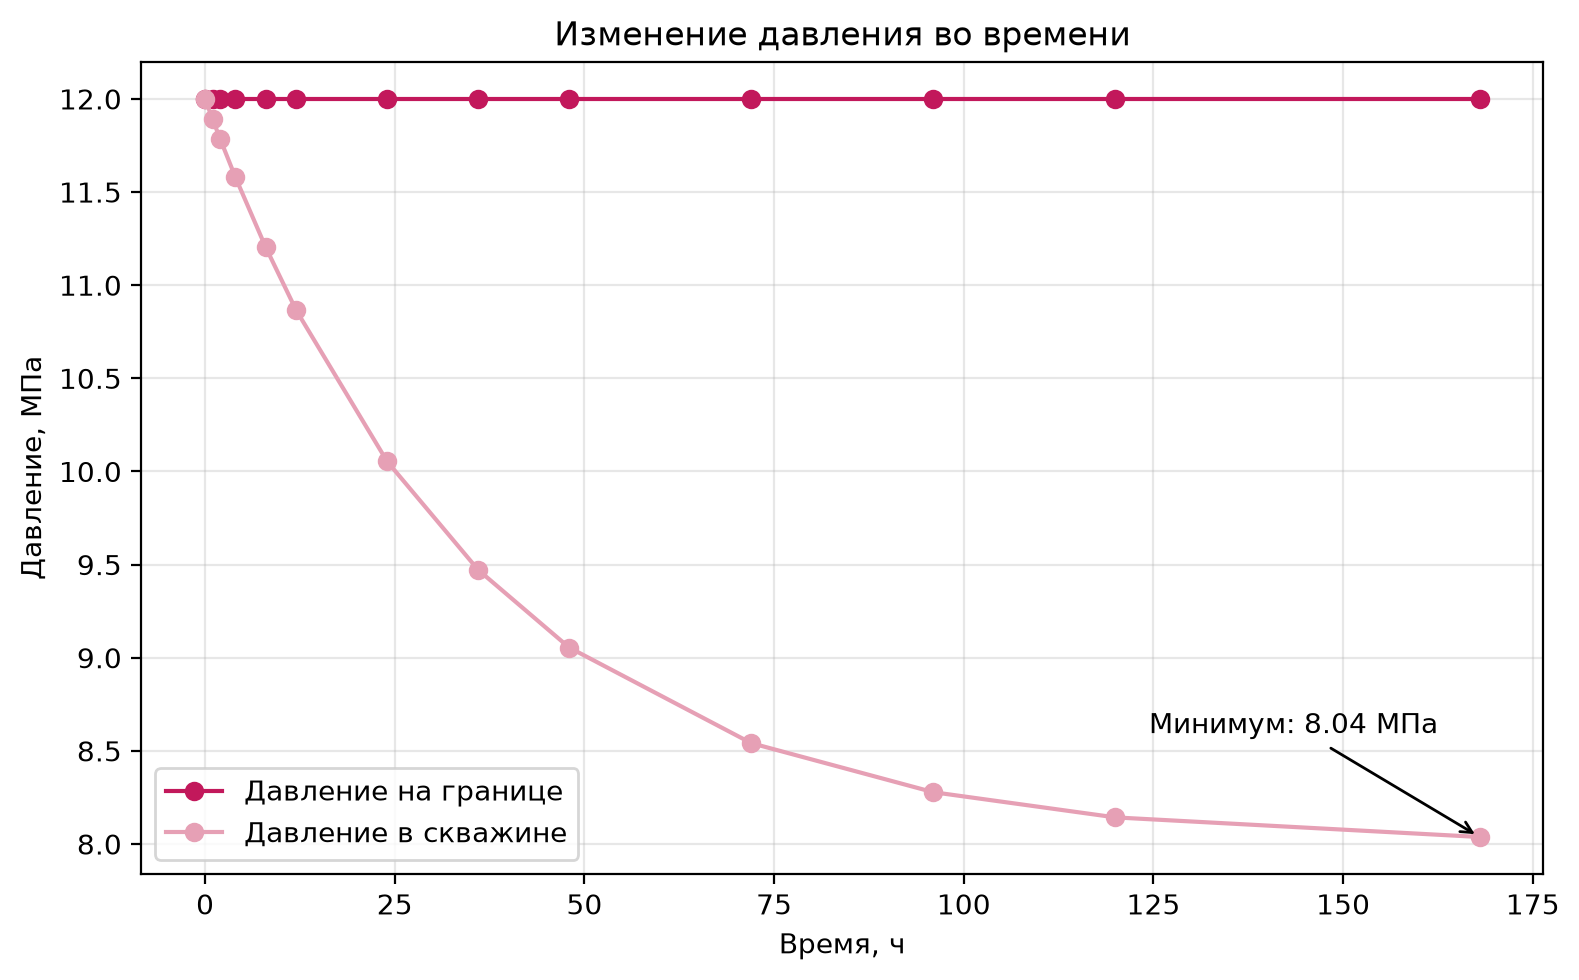
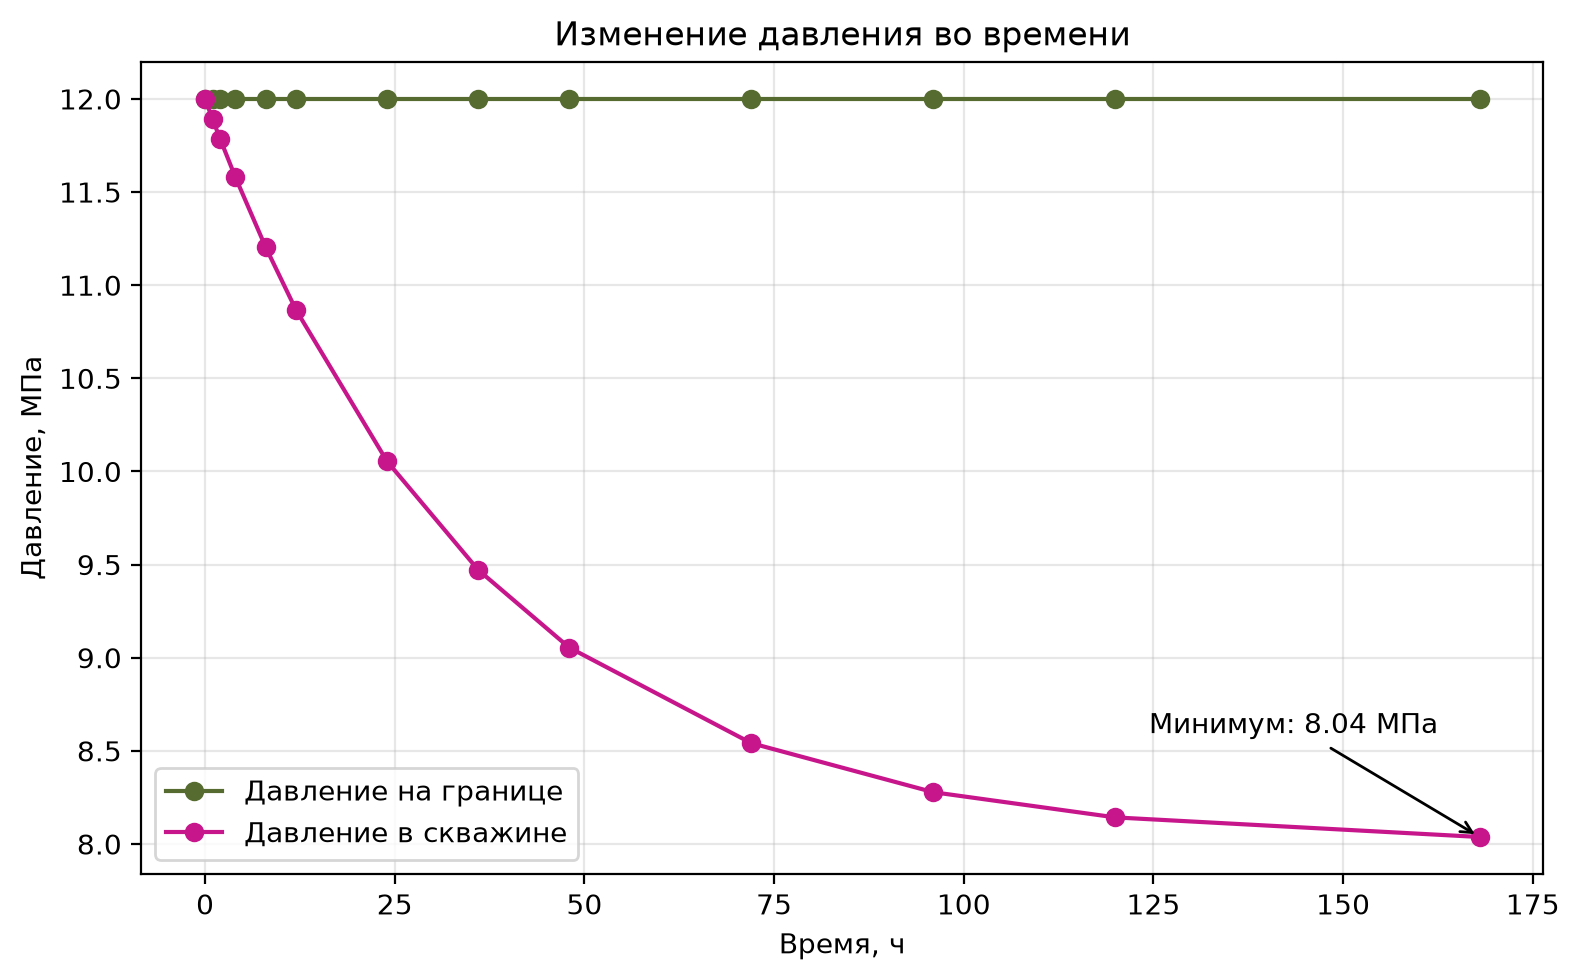
Update homework 2 plot colors

diff --git a/homeworks/hw02/plot_utils.py b/homeworks/hw02/plot_utils.py
@@ -1,5 +1,3 @@
-from pathlib import Path
-
 import matplotlib.pyplot as plt
 
 def plot_pressure_over_time(table, output_dir):
@@ -10,7 +8,7 @@ def plot_pressure_over_time(table, output_dir):
         table["time_h"],
         table["boundary_pressure_mpa"],
         marker="o",
-        color="#C2185B",
+        color="#556B2F",
         label="Давление на границе"
     )
 
@@ -18,7 +16,7 @@ def plot_pressure_over_time(table, output_dir):
         table["time_h"],
         table["well_pressure_mpa"],
         marker="o",
-        color="#E6A0B5",
+        color="#C7158C",
         label="Давление в скважине"
     )
 
